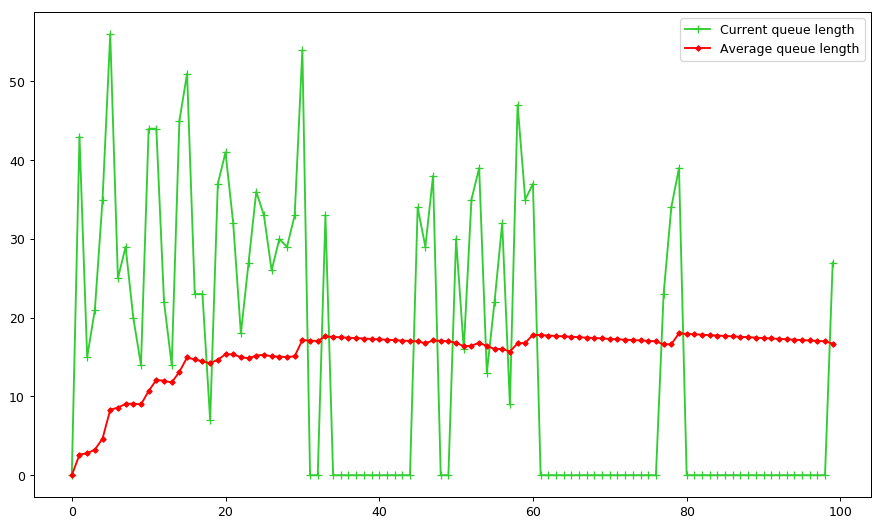
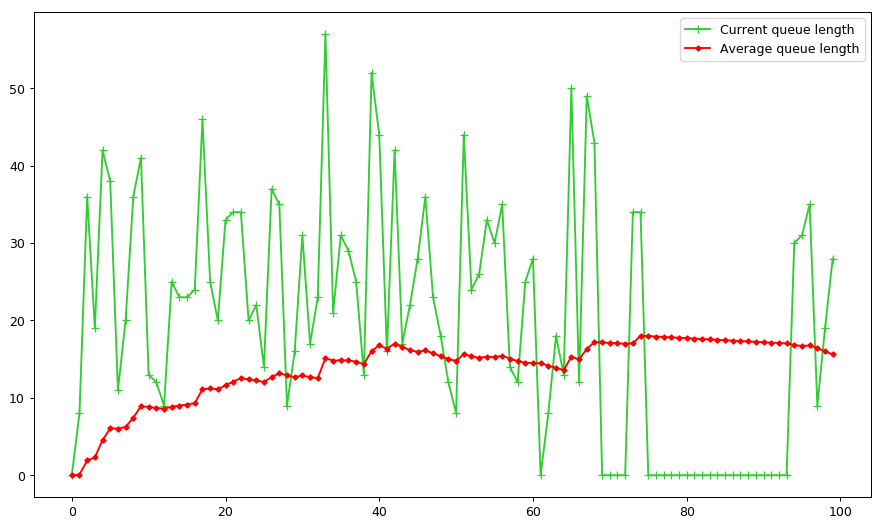
added server

diff --git a/src/gateway.cpp b/src/gateway.cpp
@@ -34,22 +34,22 @@ class packet {
 };
 
 int sockid, maxNumClients, simTime;
-struct sockaddr_in addrport, clientAddr;
-socklen_t clilen;
-int *clientsSockid;
-queue<char> Queue;
+struct sockaddr_in addrport, clientAddr,serverAddr;
+socklen_t clilen,servlen;
+int *clientsSockid,servSockid;
+queue<packet*> Queue;
 mutex mtx;
 vector<packet*> bufferPackets;
 ofstream fout;
 
-void showq(queue<char> q) { 
-    queue<char> g = q; 
-    while(!g.empty()) { 
-        cout << '\t' << g.front(); 
-        g.pop(); 
-    }
-    cout << '\n'; 
-}
+// void showq(queue<char> q) { 
+//     queue<char> g = q; 
+//     while(!g.empty()) { 
+//         cout << '\t' << g.front(); 
+//         g.pop(); 
+//     }
+//     cout << '\n'; 
+// }
 
 // RED Algorithm's parameter initialization
 double avg = 0;             // Average queue length
@@ -60,7 +60,7 @@ double maxp = 0.02;         // Maximum probability of dropping a packet; standar
 double pb = 0;              // Probability of dropping a packet
 time_t qTime;               // Time since the queue was last idle
 
-void red(char* buffer) {
+void red(packet* Packet) {
     // Calculating queue length
     if(Queue.size() == 0) {
         // double m = (time(NULL) - qTime)/0.001;
@@ -95,25 +95,25 @@ void red(char* buffer) {
         double randomP = (rand()%100)/100.00;
         // Dropping packet with probability pa
         if(randomP < pa) {
-            printf("Dropping packet: %c\n", buffer[0]);
+            printf("Dropping packet\n");
             // Resseting count to 0
             count = 0;
         } else {
             printf("Packet buffered\n");
-            Queue.push(buffer[0]);
+            Queue.push(Packet);
             // Initialize count to -1 since packet is buffered
             count = -1;
         }
     } else if(maxThreshold <= avg) {
         // Queue size is more than max threshold allowed
         // Drop all packets 
-        printf("Dropping packet: %c\n", buffer[0]);
+        printf("Dropping packet\n");
         count = 0;
     } else {
         // Average queue length is less than minimum threshold 
         // Accept all packets
         printf("Packet buffered\n");
-        Queue.push(buffer[0]);
+        Queue.push(Packet);
         // Since the average queue length is below minimum threshold, initialize count to -1
         count = -1;
     }
@@ -127,7 +127,9 @@ int *hostRate;
 void dequeQueue() {
     mtx.lock();
     while(!Queue.empty()) { 
-        Queue.pop(); 
+         packet *Packet = Queue.front();
+         send(servSockid,Packet,sizeof(*Packet),0);
+         Queue.pop();
     }
     mtx.unlock();
     // cout << "Queue is dequeed\n";
@@ -144,7 +146,7 @@ void simulateRED() {
         // Process the packets in the buffer using RED algorithm
         for(int i=0; i<buffer_size; i++) {
             mtx.lock();
-            red(&(bufferPackets[i]->charPayload));
+            red(bufferPackets[i]);
             mtx.unlock();
             bufferPackets.erase(bufferPackets.begin()); 
         }
@@ -160,7 +162,10 @@ void receivePackets(int id) {
             printf("Error on receiving message from socket %d.\n", id);
         }
         if(recvpacket->isLast)
+        {
+            Queue.push(recvpacket);
             return;
+        }    
         // Add the recieved packet to the shared buffer
         mtx2.lock();
         bufferPackets.push_back(recvpacket);
@@ -170,6 +175,13 @@ void receivePackets(int id) {
 }
 
 void acceptMethod() {
+
+
+
+    servSockid = accept(sockid, (struct sockaddr *)&serverAddr, &servlen);
+    cout<<servSockid<<endl;
+
+    //connect to clients
     clientsSockid = new int[maxNumClients];
     for(int i=0; i<maxNumClients; i++) {
         clientsSockid[i] = accept(sockid, (struct sockaddr *)&clientAddr, &clilen);
@@ -202,6 +214,8 @@ void acceptMethod() {
 
     for(int i=0; i<maxNumClients; i++)
         close(clientsSockid[i]);
+    dequeQueue();    
+    close(servSockid);    
 }
 
 int main(int argc, char const** argv) {
@@ -242,17 +256,21 @@ int main(int argc, char const** argv) {
     fout << traffic << endl;
 
     if(bind(sockid, (struct sockaddr *)&addrport, sizeof(addrport)) != -1) {
-        // Socket is binded
+        // Socket is bound
         int status = listen(sockid, maxNumClients);
         if(status < 0) {
             printf("Error in listening.\n");
         }
+        clilen = sizeof(serverAddr);
         clilen = sizeof(clientAddr);
 
         cout << "Starting RED algorithm simulation for " << traffic << " traffic\n";
+        
+
         acceptMethod();
     }
     fout.close();
+
     
     return 0;
 }

diff --git a/src/server.cpp b/src/server.cpp
@@ -1,0 +1,100 @@
+/*
+    To run the client.cpp file:
+    g++ client-new.cpp -o client -std=c++11 -lpthread
+    To execute:
+    ./client 3542 1 100 low
+*/
+#include <stdio.h>
+#include <stdlib.h>
+#include <string.h>
+#include <sys/types.h>
+#include <sys/socket.h>
+#include <netinet/in.h>
+#include <netinet/tcp.h>
+#include <thread>
+#include <strings.h>
+#include <arpa/inet.h>
+#include <unistd.h>
+#include <vector>
+#include <fstream>
+#include <iostream>
+#include <chrono>
+
+using namespace std;
+
+class packet
+{
+    public:
+        bool isLast;
+        char charPayload;
+
+    packet()
+    {
+        isLast=false;
+    }    
+};
+
+
+
+// Method for sending packets in burst
+
+int main(int argc, char const** argv) {
+    if(argc < 1) {
+        cout << "Usage ./server <port-no>\n";
+        
+        exit(1);
+    }
+
+    //set up connection to gateway
+
+    struct sockaddr_in addrport, serverAddr;
+    struct hostent *server;
+
+    int sockid = socket(PF_INET, SOCK_STREAM, 0);
+    if(sockid < 0) {
+        printf("Socket could not be opened.\n");
+    }
+
+    addrport.sin_family = AF_INET;
+    addrport.sin_port = htons(atoi(argv[1]));
+    addrport.sin_addr.s_addr = inet_addr("127.0.0.1");
+    cout<<argv[1]<<endl;
+    if(connect(sockid, (struct sockaddr *) &addrport, sizeof(addrport)) < 0) {
+        printf("Connection failed.\n");
+    }
+    
+    int n = 1;
+    // Set socket options to TCP_NODELAY which disables Nagle's algorithm -
+    //  - buffering short packets until a large packet is created to save bandwidth
+    n = setsockopt(sockid, IPPROTO_TCP, TCP_NODELAY, &n, sizeof(n));
+    if (n < 0)  {
+        printf("ERROR enabling TCP_NODELAY");
+        exit(1);
+    }
+    int lastPackets = 0, x,rcv_bytes;
+
+
+
+    cout << "Starting Server " <<"\n";
+    while(1)
+    {
+        packet *recvpacket=new packet;
+        rcv_bytes=recv(sockid,recvpacket,sizeof(*recvpacket),0);
+        //count recieved last packets
+
+        //TODO: Do something with recv'd packets
+        if(recvpacket->isLast==true)
+        {
+            lastPackets++;
+            cout<<"client finished"<<endl;
+        }
+        //break when all last packets recv'd    
+        if(lastPackets==6)
+            break;
+
+    }
+
+    cout<<"All packets recieved, Server Terminating"<<endl;
+    close(sockid);
+    return 0;
+}

diff --git a/src/plotter.py b/src/plotter.py
@@ -1,7 +1,7 @@
 import matplotlib.pyplot as plt
 # plt.style.use('ggplot')
 
-with open("../samples/log.txt", "r") as fp:
+with open("samples/log.txt", "r") as fp:
     lines = fp.readlines()
 
 queue = []
